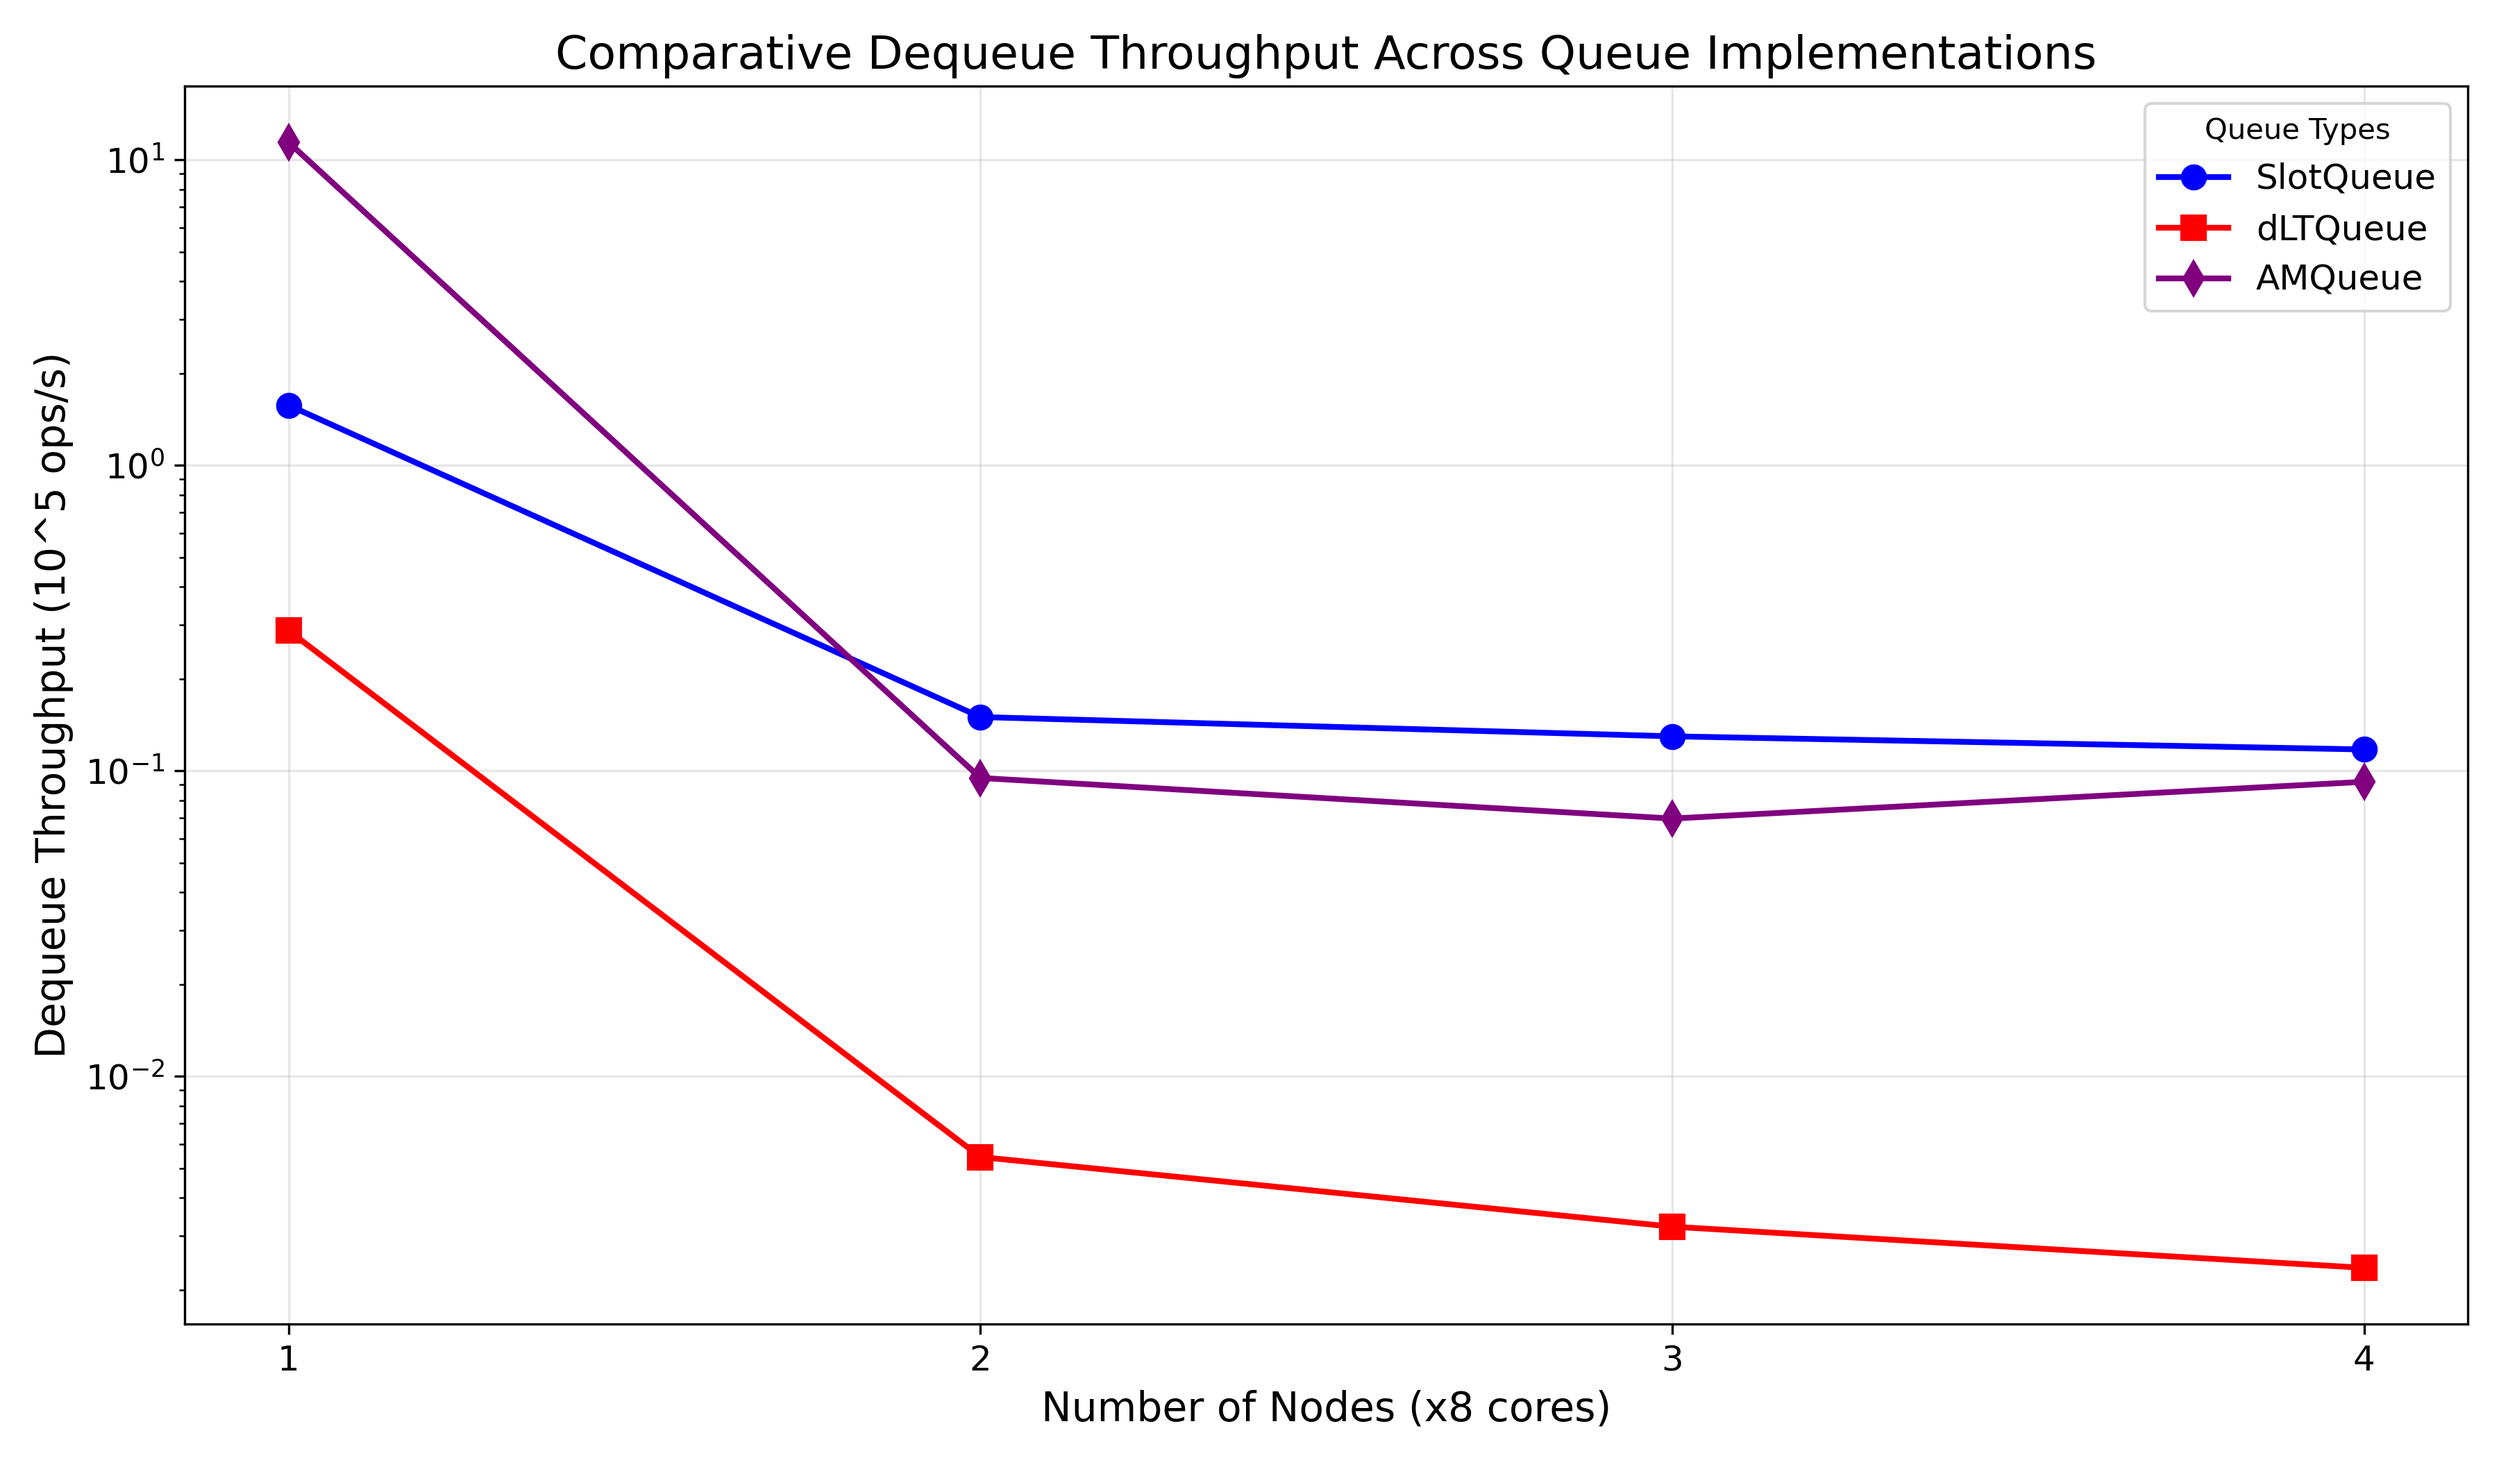
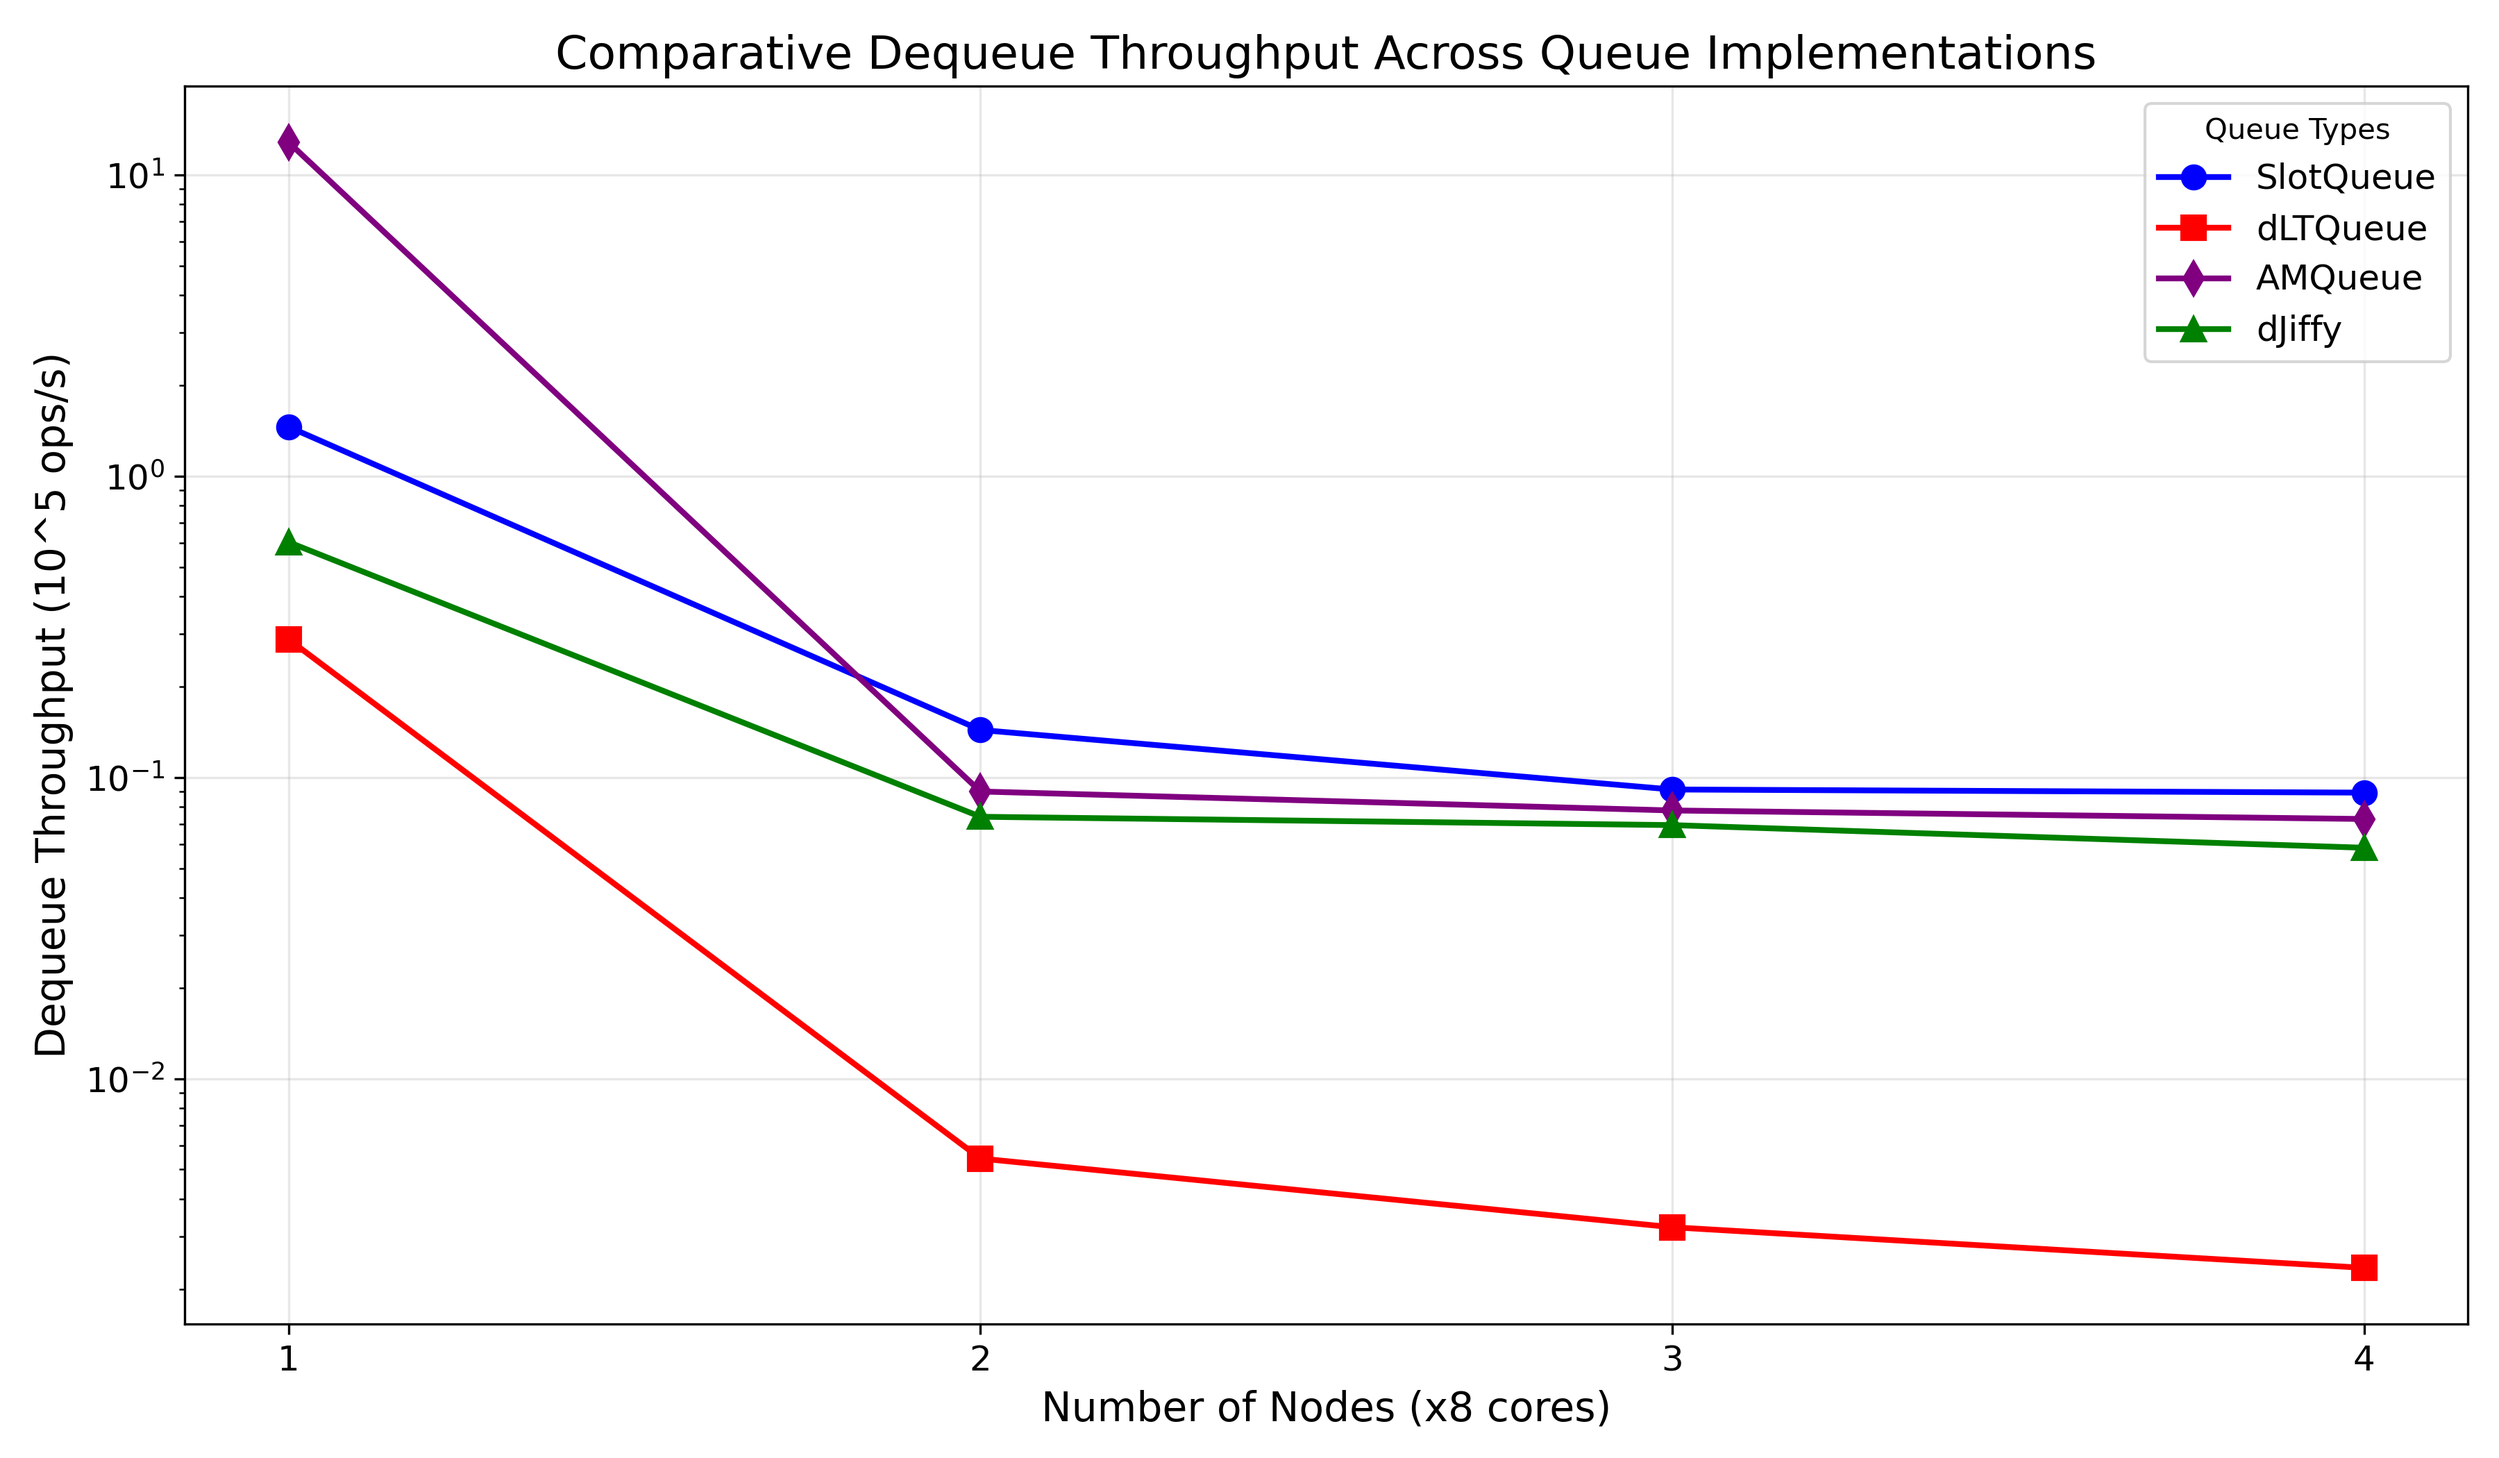
fix(viz): add dJiffy

diff --git a/viz/microbenchmarks/single-one-queue/non-rdma-cluster/by-nodes.py b/viz/microbenchmarks/single-one-queue/non-rdma-cluster/by-nodes.py
@@ -3,16 +3,14 @@ import os
 
 output_dir = "non-rdma-cluster/all/by-nodes"
 os.makedirs(output_dir, exist_ok=True)
-
 nodes = [1, 2, 3, 4]
-
 queue_data = {
     "SlotQueue": {
-        "dequeue_throughput": [1.57149, 0.149915, 0.129626, 0.117402],
-        "dequeue_latency": [6.3634, 66.7044, 77.1452, 85.1772],
-        "enqueue_throughput": [4.66741, 0.414245, 0.270233, 0.234497],
-        "enqueue_latency": [14.9976, 362.104, 851.116, 1321.98],
-        "total_throughput": [3.14455, 0.30058, 0.260807, 0.237505],
+        "dequeue_throughput": [1.45806, 0.143827, 0.0912495, 0.0890932],
+        "dequeue_latency": [6.85842, 69.5281, 109.59, 112.242],
+        "enqueue_throughput": [4.97149, 0.559945, 0.240373, 0.218914],
+        "enqueue_latency": [14.0803, 267.884, 956.848, 1416.08],
+        "total_throughput": [2.91615, 0.287661, 0.182503, 0.178192],
     },
     "dLTQueue": {
         "dequeue_throughput": [0.287441, 0.00543658, 0.00321616, 0.00235801],
@@ -22,14 +20,20 @@ queue_data = {
         "total_throughput": [0.574968, 0.0108759, 0.00643392, 0.00471908],
     },
     "AMQueue": {
-        "dequeue_throughput": [11.4077, 0.0946985, 0.0697346, 0.0919903],
-        "dequeue_latency": [0.8766, 105.598, 143.401, 108.707],
-        "enqueue_throughput": [14.0963, 0.17869, 0.0954709, 0.109493],
-        "enqueue_latency": [4.96583, 839.444, 2409.11, 2831.23],
-        "total_throughput": [20.7573, 0.177045, 0.127443, 0.162925],
+        "dequeue_throughput": [12.8275, 0.0898694, 0.0777419, 0.0728335],
+        "dequeue_latency": [0.779574, 111.273, 128.631, 137.299],
+        "enqueue_throughput": [13.2698, 0.169792, 0.112492, 0.0954702],
+        "enqueue_latency": [5.27512, 883.432, 2044.59, 3247.09],
+        "total_throughput": [25.6201, 0.179615, 0.155351, 0.145486],
+    },
+    "dJiffy": {
+        "dequeue_throughput": [0.60406, 0.0740857, 0.0695117, 0.0584624],
+        "dequeue_latency": [16.5546, 134.979, 143.861, 171.05],
+        "enqueue_throughput": [1.05048, 0.132834, 0.100353, 0.078712],
+        "enqueue_latency": [66.6364, 1129.23, 2291.91, 3938.41],
+        "total_throughput": [1.20813, 0.14291, 0.130728, 0.11565],
     },
 }
-
 metrics = [
     "dequeue_throughput",
     "dequeue_latency",
@@ -37,7 +41,6 @@ metrics = [
     "enqueue_latency",
     "total_throughput",
 ]
-
 metric_labels = {
     "dequeue_throughput": ("Dequeue Throughput", "10^5 ops/s"),
     "dequeue_latency": ("Dequeue Latency", "μs"),
@@ -45,16 +48,14 @@ metric_labels = {
     "enqueue_latency": ("Enqueue Latency", "μs"),
     "total_throughput": ("Total Throughput", "10^5 ops/s"),
 }
-
 queue_styles = {
     "SlotQueue": {"color": "blue", "marker": "o"},
     "dLTQueue": {"color": "red", "marker": "s"},
     "AMQueue": {"color": "purple", "marker": "d"},
+    "dJiffy": {"color": "green", "marker": "^"},
 }
-
 for metric in metrics:
     plt.figure(figsize=(12, 7))
-
     for queue_name, queue_metrics in queue_data.items():
         style = queue_styles[queue_name]
         plt.plot(
@@ -67,25 +68,19 @@ for metric in metrics:
             linewidth=2,
             markersize=8,
         )
-
     title, unit = metric_labels[metric]
     plt.title(f"Comparative {title} Across Queue Implementations", fontsize=16)
     plt.xlabel("Number of Nodes (x8 cores)", fontsize=14)
     plt.ylabel(f"{title} ({unit})", fontsize=14)
-
     plt.yscale("log")  # Set y-axis to logarithmic scale
     plt.grid(True, alpha=0.3)
     plt.legend(title="Queue Types", loc="best", fontsize=12)
-
     plt.xticks(nodes, [str(int(node)) for node in nodes], fontsize=12)
     plt.yticks(fontsize=12)
-
     plt.tight_layout()
-
     filename = f"{output_dir}/{metric}_comparison.png"
     plt.savefig(filename, dpi=300)
     plt.close()
-
 print(
     "All comparative plots have been generated in the 'non-rdma-cluster/all/by-nodes' folder."
 )
